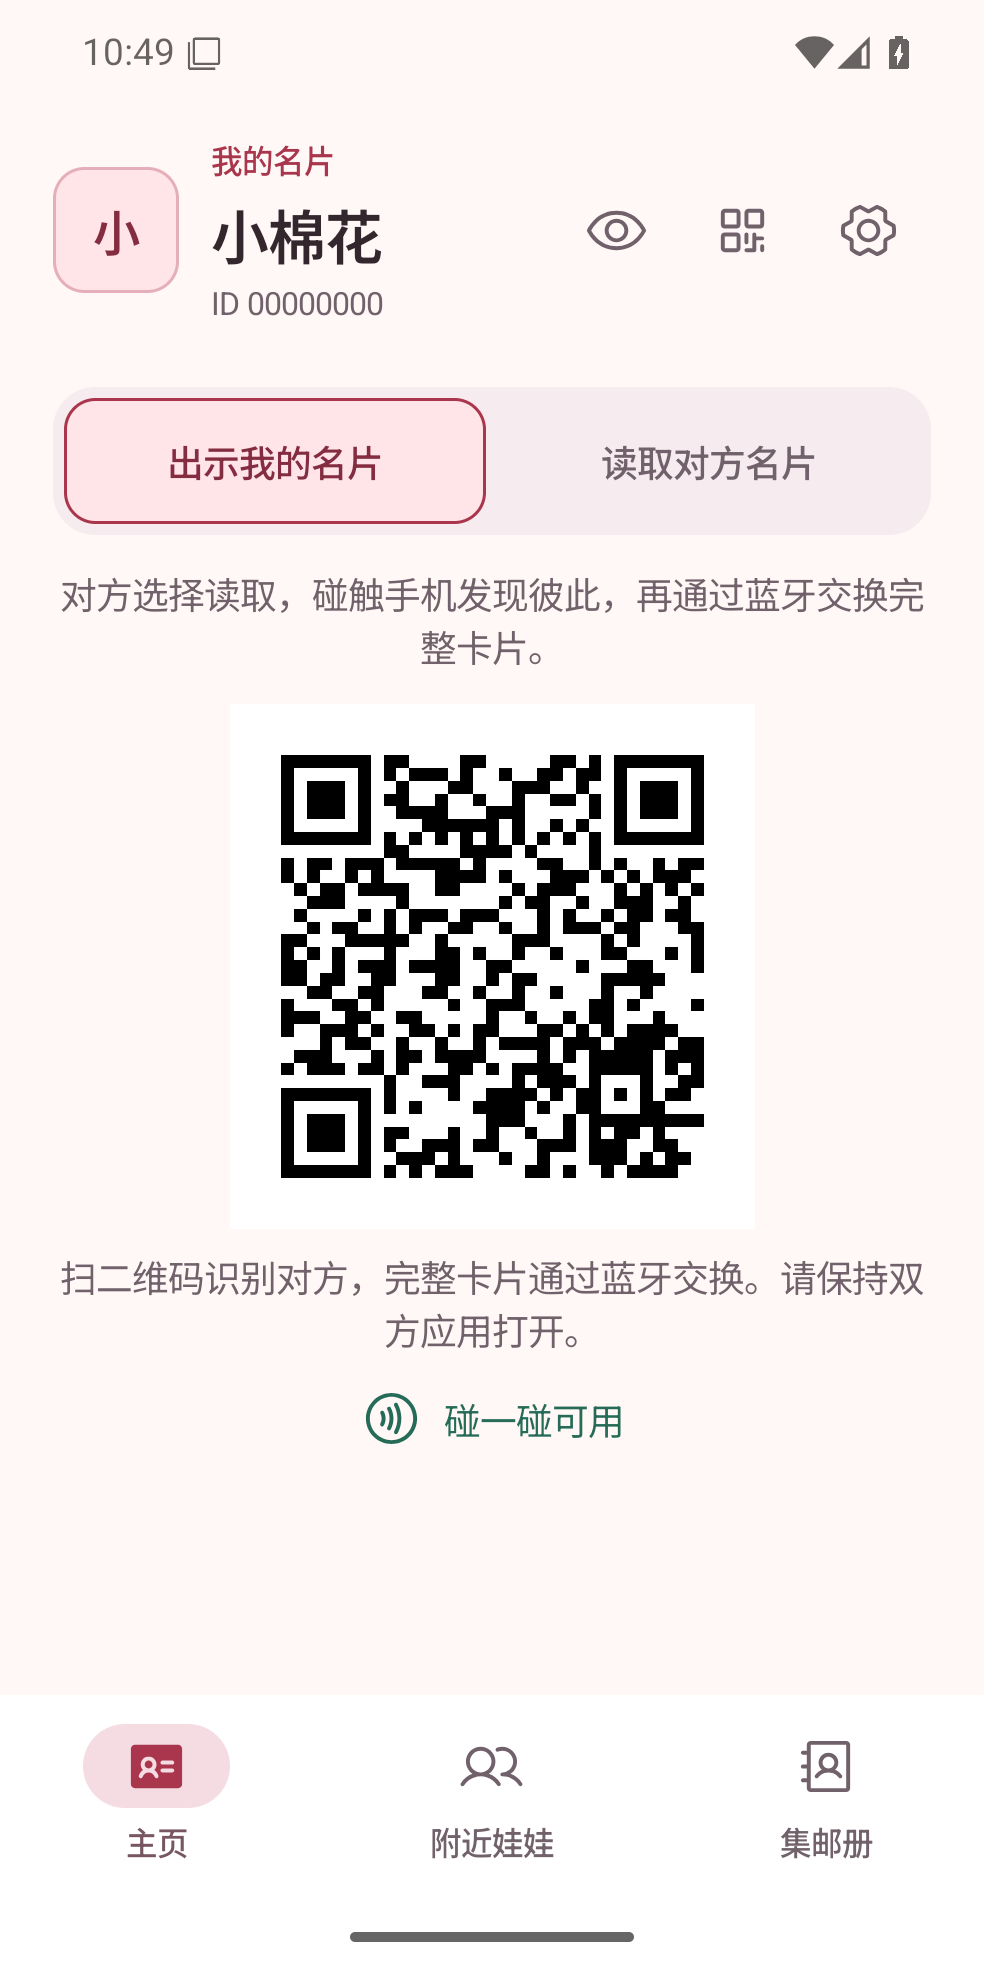
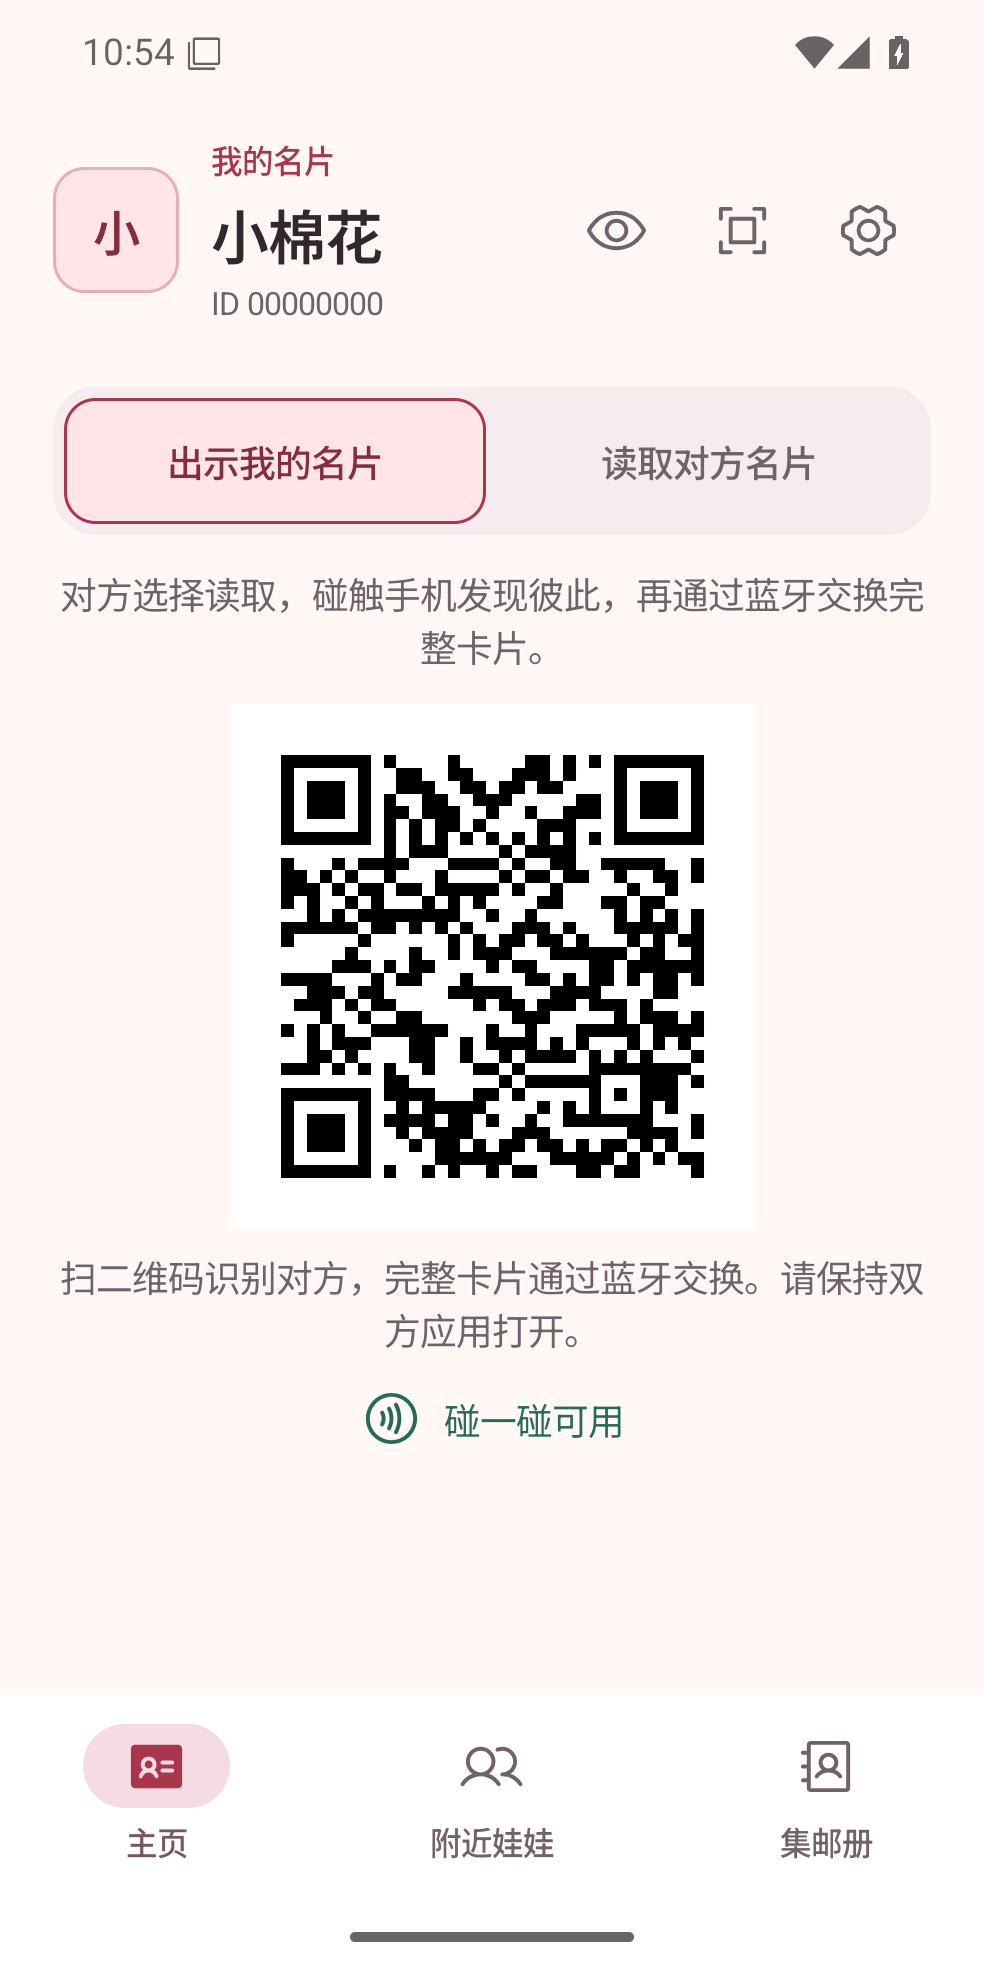
fix: 扫码入口改用取景框图标

Changed region(s): [[0.2744, 0.372, 0.7317, 0.6199], [0.7317, 0.093, 0.7927, 0.124], [0.122, 0.0, 0.1829, 0.031]]

diff --git a/app/src/main/kotlin/app/pengwa/ui/HomeScreen.kt b/app/src/main/kotlin/app/pengwa/ui/HomeScreen.kt
@@ -139,7 +139,7 @@ internal fun HomeHeader(identity: Identity, onView: () -> Unit, onScan: () -> Un
                 modifier = Modifier.padding(top = 4.dp))
         }
         IconButton(onClick = onView) { PengWaIcon(PengWaIcons.View, contentDescription = stringResource(R.string.home_view_card)) }
-        IconButton(onClick = onScan) { PengWaIcon(PengWaIcons.Qr, contentDescription = stringResource(R.string.qr_scan)) }
+        IconButton(onClick = onScan) { PengWaIcon(PengWaIcons.Scan, contentDescription = stringResource(R.string.qr_scan)) }
         IconButton(onClick = onSettings) { PengWaIcon(PengWaIcons.Settings, contentDescription = stringResource(R.string.home_settings)) }
     }
 }

diff --git a/core/designsystem/src/main/kotlin/app/pengwa/ui/components/PengWaIcons.kt b/core/designsystem/src/main/kotlin/app/pengwa/ui/components/PengWaIcons.kt
@@ -24,6 +24,7 @@ object PengWaIcons {
     val Camera = R.drawable.ph_camera
     val Bluetooth = R.drawable.ph_bluetooth
     val Qr = R.drawable.ph_qr_code
+    val Scan = R.drawable.ph_scan
     val Settings = R.drawable.ph_gear_six
     val View = R.drawable.ph_eye
     val Edit = R.drawable.ph_pencil_simple

diff --git a/docs/screenshots/card-qr-actions/README.md b/docs/screenshots/card-qr-actions/README.md
@@ -1,7 +1,7 @@
 # 主页二维码与扫码入口
 
 - 移除二维码外层卡片的白色背景、描边和额外内边距。二维码固定黑白，保留四模块识别静区；放大二维码使用相同绘制方式。
-- 删除底部通栏“扫一扫”，改为右上角的扫码图标；使用 Material `IconButton` 的 48dp 触控区域和“扫一扫”无障碍名称。
+- 删除底部通栏“扫一扫”，改为右上角的取景框式扫码图标（Phosphor Scan）；使用 Material `IconButton` 的 48dp 触控区域和“扫一扫”无障碍名称。
 - 移除主页直接编辑入口。点击眼睛图标“查看我的卡片”，在名片预览内点击“编辑”；保存后返回预览。
 
 截图来自运行中的 Debug APK，使用 `adb exec-out screencap -p` 获取。变更前为 `409ffb6`，变更后为本分支。测试设备：Android Emulator `emulator-5556`，`sdk_gphone64_x86_64`，Android 16 / API 36，1080 × 2400，420dpi，字体 1.0。预览使用固定合成身份“小棉花”与 `00000000`，相机流程使用既有测试身份 `TestCard`；没有真实用户资料。

diff --git a/third_party/README.md b/third_party/README.md
@@ -2,7 +2,7 @@
 
 Source: https://github.com/phosphor-icons/core/tree/2b75f3ad12b420c9504ef05df8d2564a28f8500e
 
-Only the 14 Regular and 4 Fill icons used by PengWa are bundled as Android Vector Drawables in `core/designsystem/src/main/res/drawable/ph_*.xml`. Original 256 × 256 path geometry is preserved. MIT license: [phosphor-LICENSE.txt](phosphor-LICENSE.txt).
+Only the 15 Regular and 4 Fill icons used by PengWa are bundled as Android Vector Drawables in `core/designsystem/src/main/res/drawable/ph_*.xml`. Original 256 × 256 path geometry is preserved. MIT license: [phosphor-LICENSE.txt](phosphor-LICENSE.txt).
 
 The same license is packaged in the APK at `assets/licenses/phosphor-LICENSE.txt`.
 
